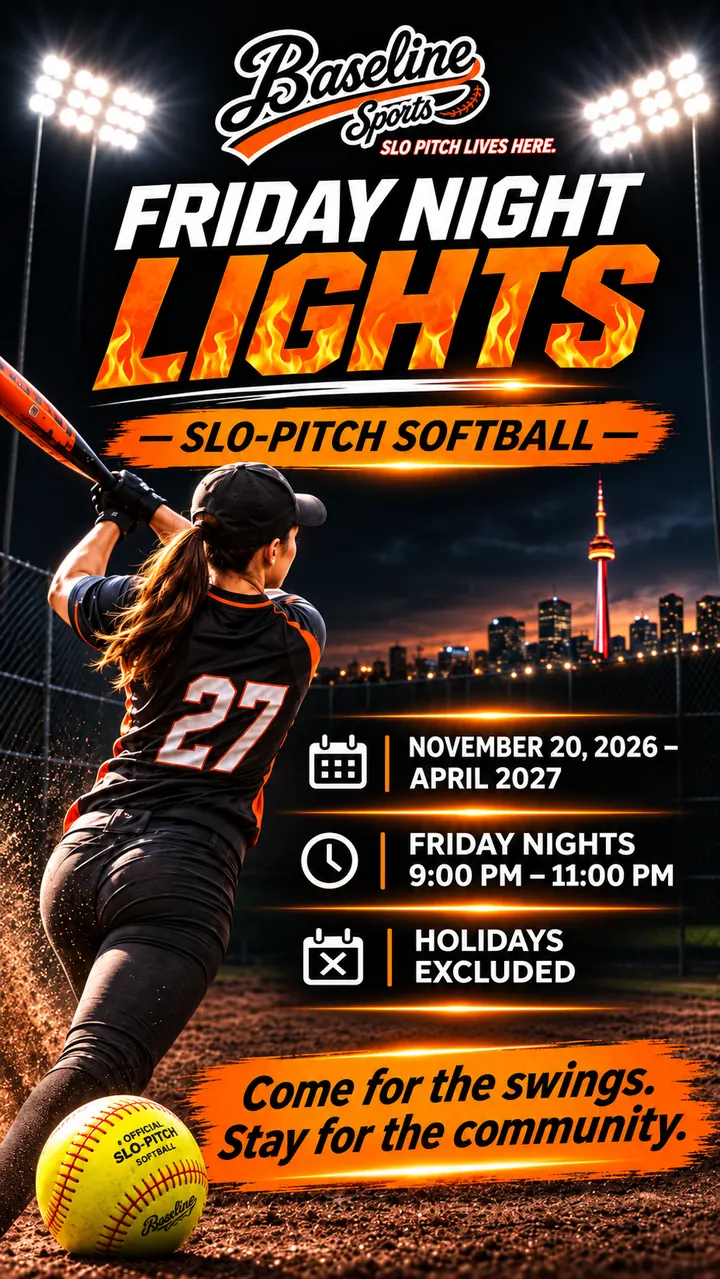
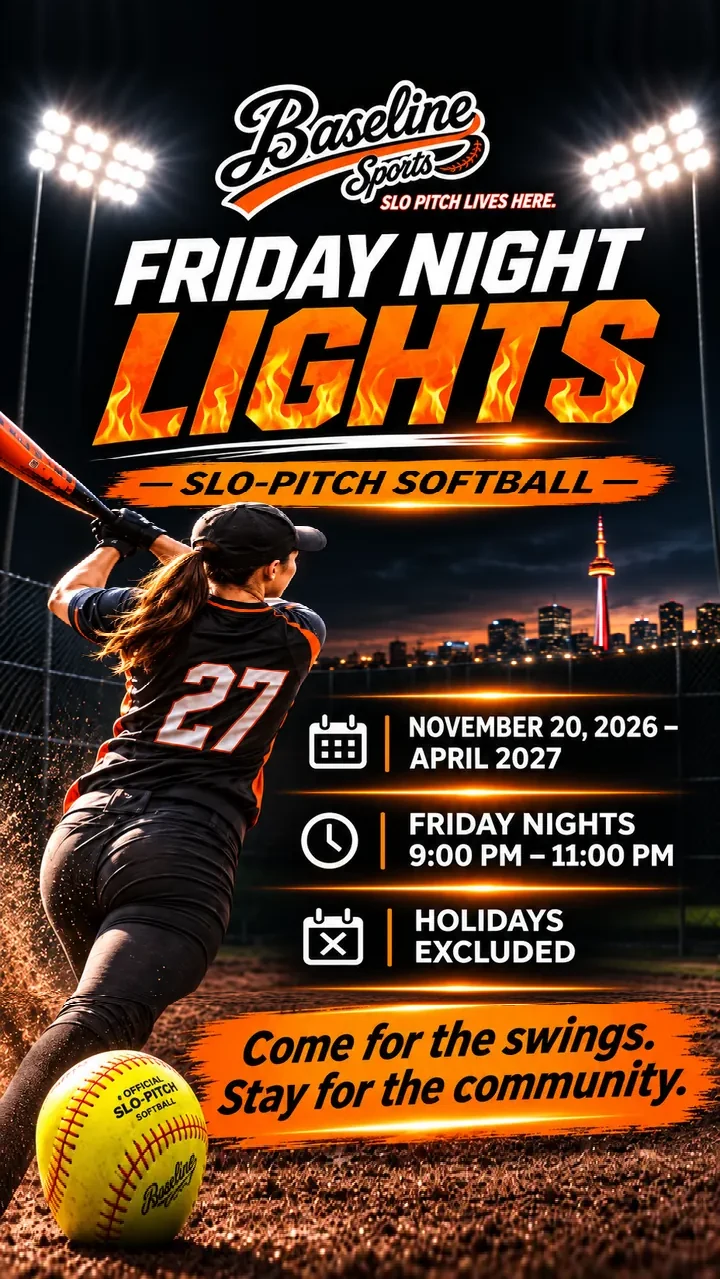
Raise Friday Night Lights dates and community slogan, extend night sky to card top

diff --git a/js/main.js b/js/main.js
@@ -374,7 +374,7 @@
 
   function leaders(){return `<div class="leader-cards">${[['Batting Average','AVG'],['Home Runs','HR'],['Runs Batted In','RBI'],['Hits','H']].map(([t,s])=>`<div class="leader-card"><b>${t.toUpperCase()}</b><small>${s}</small><strong>—</strong><span>Awaiting verified player statistics</span></div>`).join('')}</div>`;}
  function storyArt(s){if(s.id==='opener')return `${im('raccoons','one','')}${im('buffaloes','two','')}`;if(s.id==='expansion')return `${im('morsl','one','')}${im('iht','two','')}${im('maul','three','')}`;if(s.id==='trade')return `${im('maul','one','')}${im('iht','two','')}`;return ''}
- function stories(){return `<div class="stories-viewport"><button type="button" class="story-arrow story-arrow-prev" data-story-step="-1" aria-label="Previous featured stories"><span aria-hidden="true">‹</span></button><div class="stories" aria-label="Featured story carousel">${D.stories.map(s=>`<a class="story ${s.id}" href="article.html?id=${s.id}" aria-label="Read ${s.title}"><div class="story-illustration">${(s.id==='week3'||s.id==='week4')?`<video class="story-poster story-video" muted loop playsinline preload="metadata" poster="${s.id==='week4'?'assets/SNL_Week3_Approved_Video_Poster.webp':'assets/story-week3.webp'}" aria-hidden="true" tabindex="-1"><source src="${s.id==='week4'?'assets/SNL_Week_3_Highlights_FIXED_Web.mp4':'assets/week3-highlight.mp4'}" type="video/mp4"></video>`:s.id==='fridaylights'?`<img class="story-poster" src="assets/story-fridaylights.webp" alt="Baseline Sports Friday Night Lights poster: Friday nights, 9:00 PM–11:00 PM, November 20, 2026 through April 2027; holidays excluded" loading="lazy">`:`<img class="story-poster" src="${s.id==='week4'?'assets/snl-dome-banner.webp':`assets/story-${s.id}.webp${s.id==='week2'?'?v=snl-week2-rob-magzz-lowered-20261108':''}`}" alt="" loading="lazy">`}</div><span class="story-tag">${s.tag}</span><div class="story-bottom"><h3>${s.title}</h3><small>${s.id==='fridaylights'?'SNL NEWS · COMMUNITY':'SNL NEWS · FEATURE'}</small></div></a>`).join('')}</div><button type="button" class="story-arrow story-arrow-next" data-story-step="1" aria-label="Next featured stories"><span aria-hidden="true">›</span></button></div>`;}
+ function stories(){return `<div class="stories-viewport"><button type="button" class="story-arrow story-arrow-prev" data-story-step="-1" aria-label="Previous featured stories"><span aria-hidden="true">‹</span></button><div class="stories" aria-label="Featured story carousel">${D.stories.map(s=>`<a class="story ${s.id}" href="article.html?id=${s.id}" aria-label="Read ${s.title}"><div class="story-illustration">${(s.id==='week3'||s.id==='week4')?`<video class="story-poster story-video" muted loop playsinline preload="metadata" poster="${s.id==='week4'?'assets/SNL_Week3_Approved_Video_Poster.webp':'assets/story-week3.webp'}" aria-hidden="true" tabindex="-1"><source src="${s.id==='week4'?'assets/SNL_Week_3_Highlights_FIXED_Web.mp4':'assets/week3-highlight.mp4'}" type="video/mp4"></video>`:s.id==='fridaylights'?`<img class="story-poster" src="assets/story-fridaylights.webp?v=snl-fnl-composition-20261119" alt="Baseline Sports Friday Night Lights poster: Friday nights, 9:00 PM–11:00 PM, November 20, 2026 through April 2027; holidays excluded" loading="lazy">`:`<img class="story-poster" src="${s.id==='week4'?'assets/snl-dome-banner.webp':`assets/story-${s.id}.webp${s.id==='week2'?'?v=snl-week2-rob-magzz-lowered-20261108':''}`}" alt="" loading="lazy">`}</div><span class="story-tag">${s.tag}</span><div class="story-bottom"><h3>${s.title}</h3><small>${s.id==='fridaylights'?'SNL NEWS · COMMUNITY':'SNL NEWS · FEATURE'}</small></div></a>`).join('')}</div><button type="button" class="story-arrow story-arrow-next" data-story-step="1" aria-label="Next featured stories"><span aria-hidden="true">›</span></button></div>`;}
  function initFeaturedVideoPlayback(){
    document.querySelectorAll('.stories-viewport').forEach(viewport=>{
      const track=viewport.querySelector('.stories');

diff --git a/css/style.css b/css/style.css
@@ -960,15 +960,15 @@ main{padding-bottom:30px}.hero{border:1px solid #43617a;background:#102f4d;margi
    and the same full-card gradient as all other featured stories. */
 .stories > .story{height:auto!important}
 .story.fridaylights{height:auto!important;min-height:0;background:#06192b;border-color:#56738c}
-/* Reserve a quiet strip above the flyer so the Baseline logo clears the existing SNL badge.
-   Extending the card by the same amount retains the artwork's 9:16 aspect ratio. */
-.story.fridaylights:before{content:"";display:block;padding-top:calc(177.64% + 34px)}
-.story.fridaylights .story-illustration{inset:34px 0 0;overflow:hidden;background:#06192b}
+/* The flyer itself now has an extended night sky above the logo; no exposed black CSS strip.
+   Both the shifted date block and community line remain above the regular SNL fade. */
+.story.fridaylights:before{content:"";display:block;padding-top:177.64%}
+.story.fridaylights .story-illustration{inset:0;overflow:hidden;background:#06192b}
 .story.fridaylights .story-illustration img.story-poster{
   width:100%;height:100%;max-width:none;object-fit:cover;object-position:center top;background:#06192b
 }
 /* No custom footer or overlay: .story:after and .story .story-bottom
    provide precisely the same gradients and spacing as all other cards. */
-.story.fridaylights .story-tag{display:block;top:12px;left:12px;background:var(--yellow);color:#061728}
+.story.fridaylights .story-tag{display:block;top:5px;left:12px;background:var(--yellow);color:#061728}
 .fnl-article-flyer{max-width:680px;margin-left:auto;margin-right:auto}
 .fnl-article-flyer img{width:100%;height:auto}

diff --git a/highlights.html b/highlights.html
@@ -1,2 +1,2 @@
 <!doctype html>
-<html lang="en"><head><meta charset="utf-8"><meta name="viewport" content="width=device-width,initial-scale=1"><meta name="theme-color" content="#06192b"><meta name="description" content="Sunday Night Lights softball league — schedule, standings, teams, highlights and player statistics."><title>Highlights | Sunday Night Lights</title><link rel="stylesheet" href="css/style.css?v=snl-baseline-logo-clear-20261119"><link rel="stylesheet" href="css/snl-matchups-approved-v4.css?v=morsl-logo-20261105"><link rel="icon" href="assets/favicon.svg" type="image/svg+xml"></head><body data-page="highlights"><div id="siteHeader"></div><main id="app"></main><script src="js/data.js?v=snl-fnl-community-20261118"></script><script src="js/main.js?v=snl-fnl-community-20261118"></script></body></html>
+<html lang="en"><head><meta charset="utf-8"><meta name="viewport" content="width=device-width,initial-scale=1"><meta name="theme-color" content="#06192b"><meta name="description" content="Sunday Night Lights softball league — schedule, standings, teams, highlights and player statistics."><title>Highlights | Sunday Night Lights</title><link rel="stylesheet" href="css/style.css?v=snl-fnl-composition-20261119"><link rel="stylesheet" href="css/snl-matchups-approved-v4.css?v=morsl-logo-20261105"><link rel="icon" href="assets/favicon.svg" type="image/svg+xml"></head><body data-page="highlights"><div id="siteHeader"></div><main id="app"></main><script src="js/data.js?v=snl-fnl-community-20261118"></script><script src="js/main.js?v=snl-fnl-composition-20261119"></script></body></html>

diff --git a/index.html b/index.html
@@ -7,7 +7,7 @@
   <meta name="theme-color" content="#06192b">
   <meta name="description" content="Sunday Night Lights softball league — schedule, standings, teams, highlights and player statistics.">
   <title>Sunday Night Lights</title>
-  <link rel="stylesheet" href="css/style.css?v=snl-baseline-logo-clear-20261119"><link rel="stylesheet" href="css/snl-matchups-approved-v4.css?v=morsl-logo-20261105"><link rel="stylesheet" href="css/snl-crop-studio-approved-v6.css?v=iht-away-offwhite-20261108">
+  <link rel="stylesheet" href="css/style.css?v=snl-fnl-composition-20261119"><link rel="stylesheet" href="css/snl-matchups-approved-v4.css?v=morsl-logo-20261105"><link rel="stylesheet" href="css/snl-crop-studio-approved-v6.css?v=iht-away-offwhite-20261108">
   <link rel="icon" href="assets/favicon.svg" type="image/svg+xml">
 </head>
 
@@ -16,7 +16,7 @@
   <main id="app"></main>
 
   <script src="js/data.js?v=snl-fnl-community-20261118"></script>
-  <script src="js/main.js?v=snl-fnl-community-20261118"></script>
+  <script src="js/main.js?v=snl-fnl-composition-20261119"></script>
 
   <script>
   (() => {
